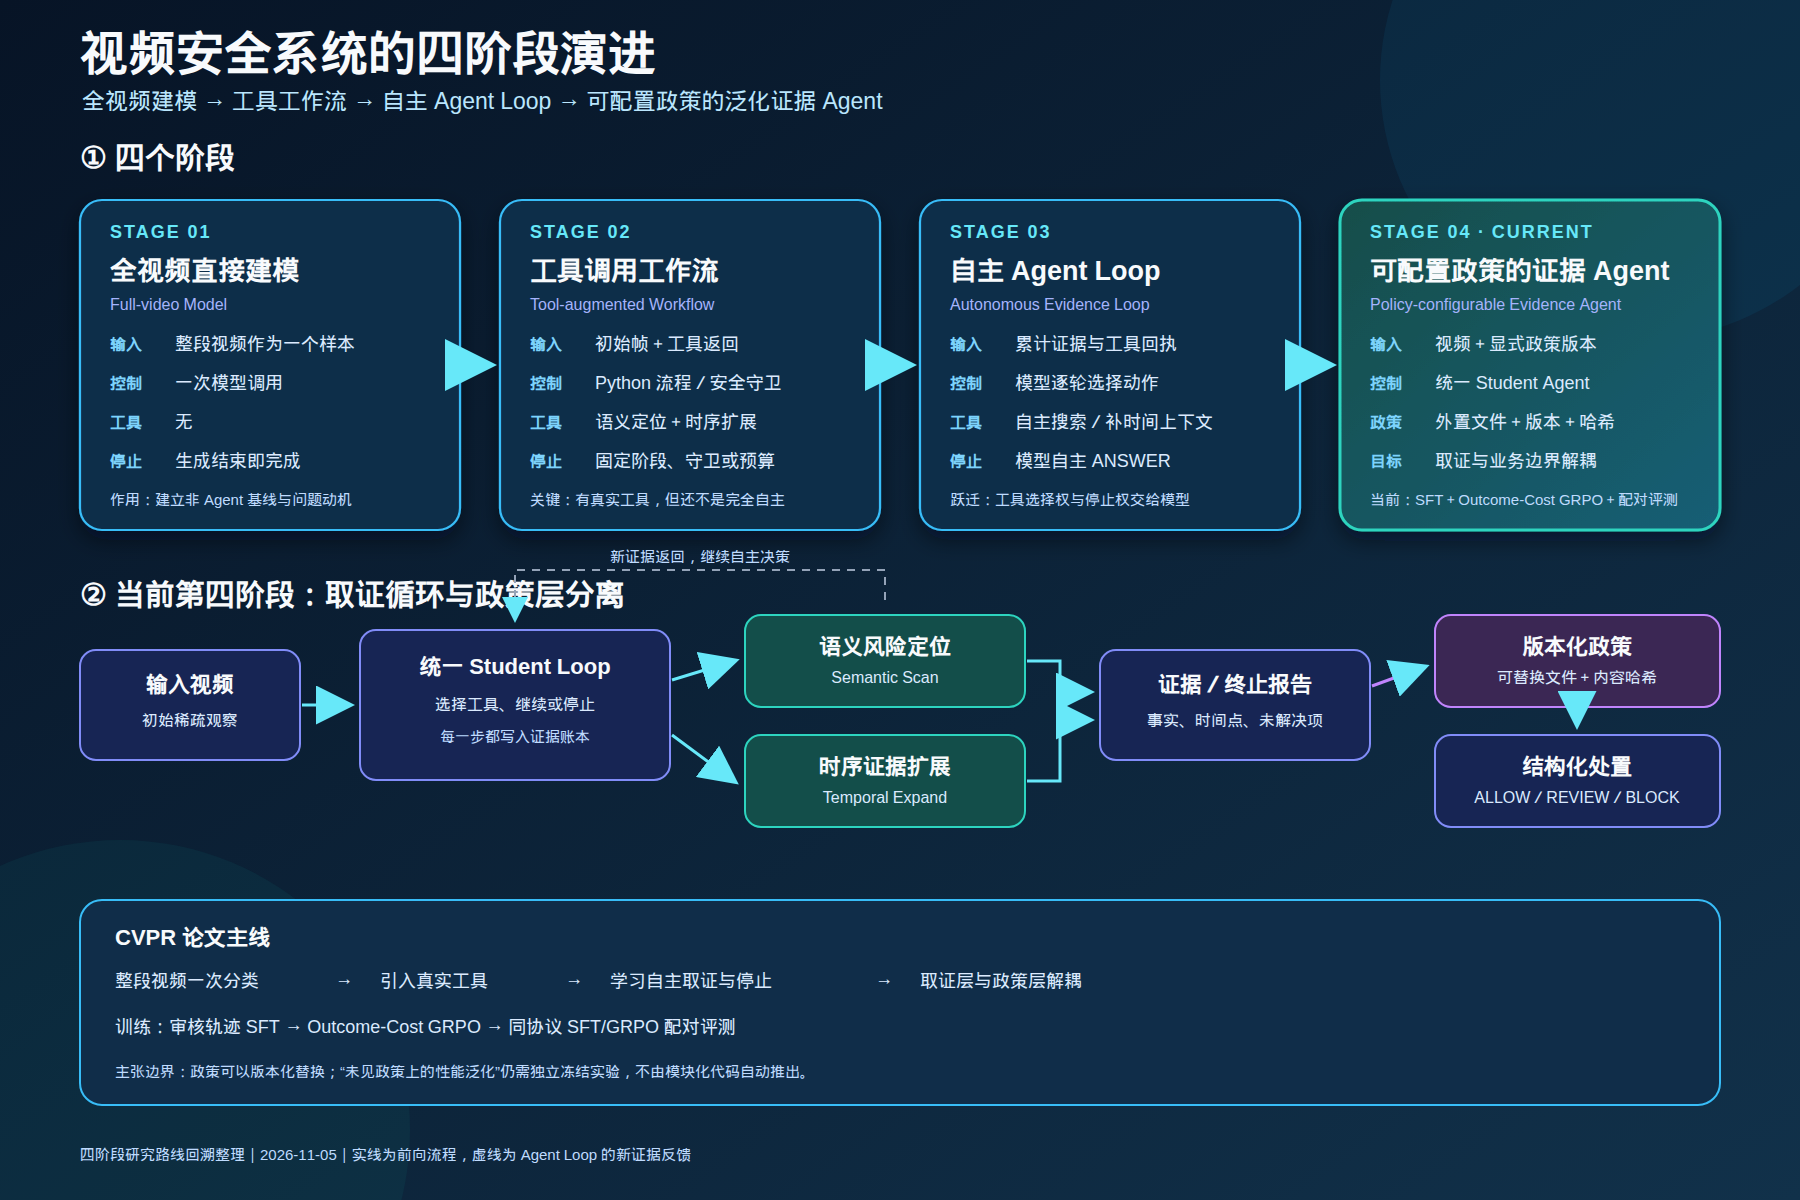
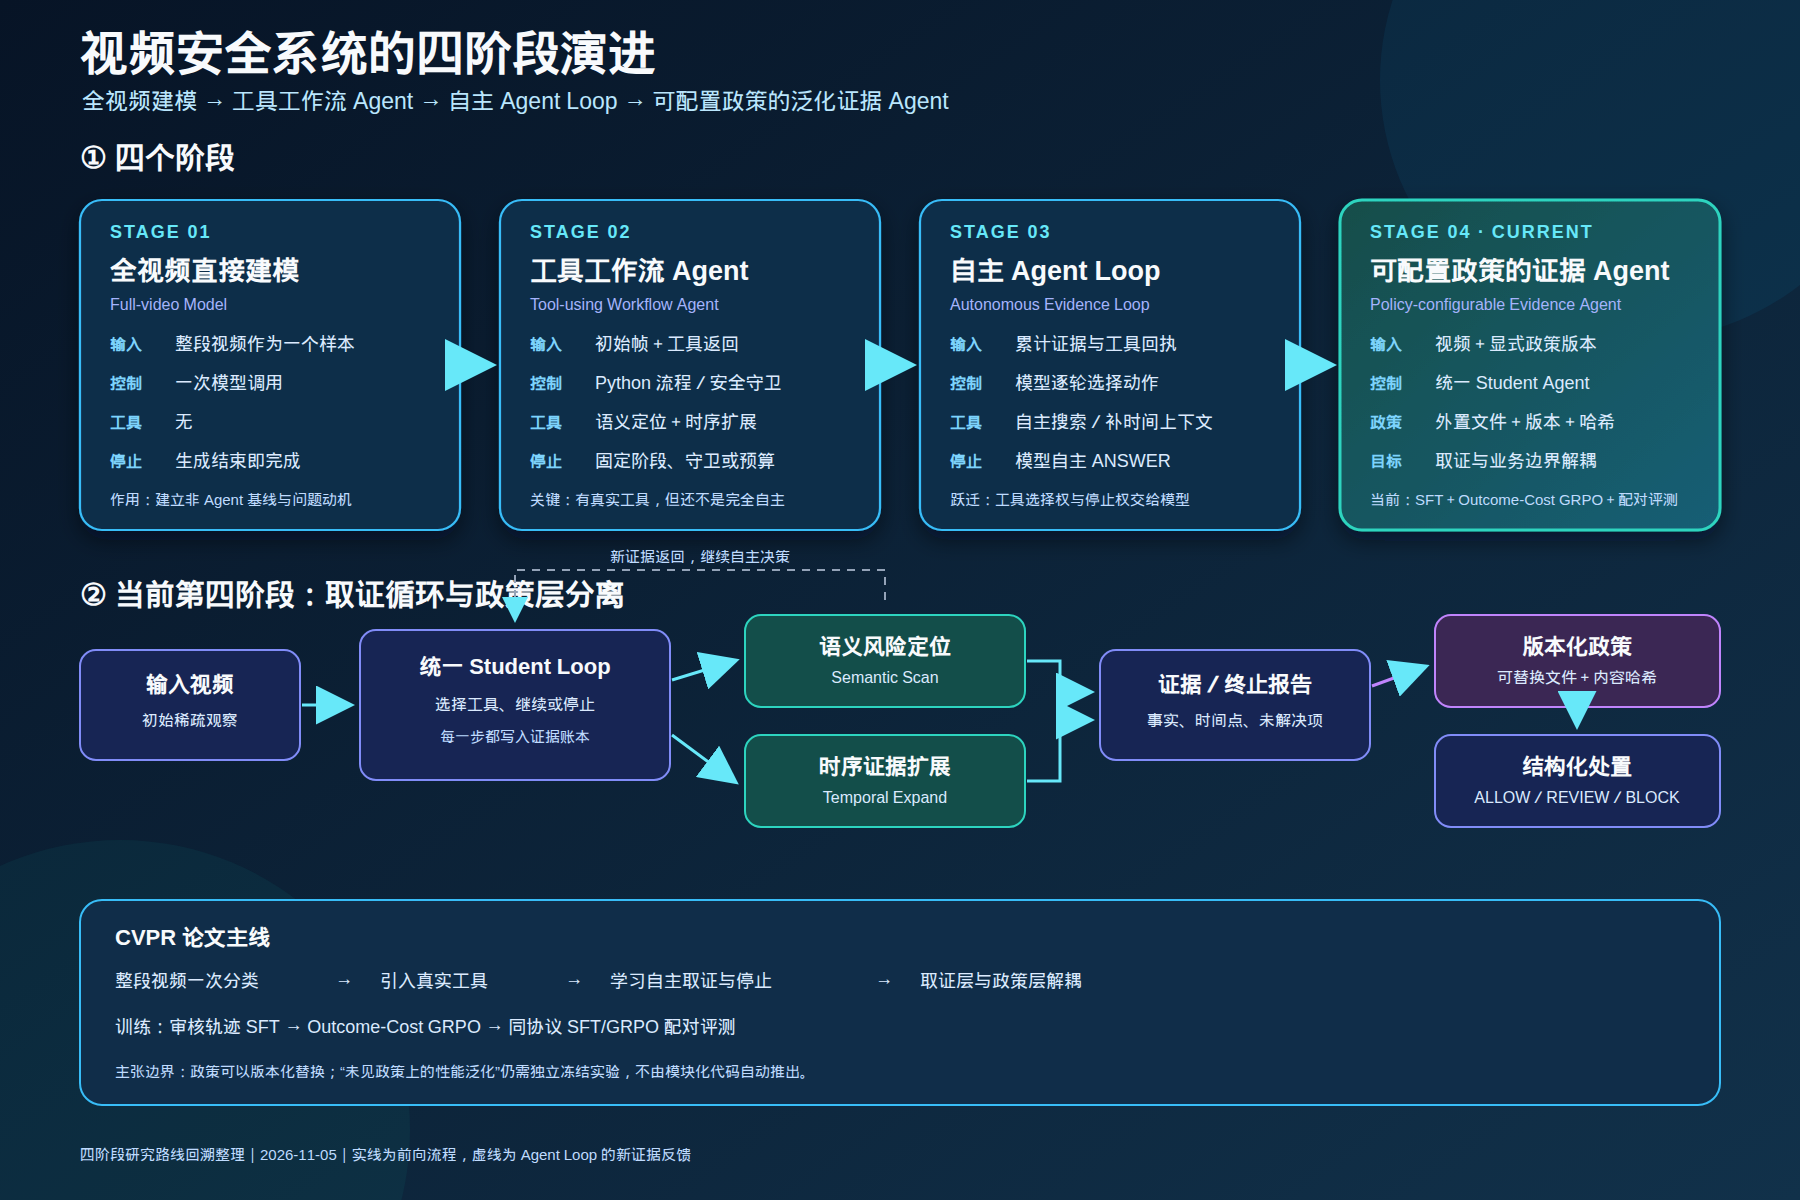
add current agent framework and audited result tables

Changed region(s): [[0.1867, 0.0617, 0.5289, 0.0925], [0.3111, 0.2158, 0.4356, 0.2775]]

diff --git a/docs/results_zh.md b/docs/results_zh.md
@@ -1,0 +1,62 @@
+# 当前结果表
+
+本页区分“当前第四阶段的运行状态”和“已经完成审计的历史定量结果”。不同数据、参考标签和评测协议下的数字不能直接横向排名。
+
+## 当前第四阶段状态
+
+| 项目 | 规模或状态 | 结论边界 |
+|---|---:|---|
+| Unified Student SFT | 1,743 个视频、2,829 个监督状态、400 个优化步 | 已完成训练；从基座新建 LoRA |
+| Outcome-Cost GRPO-53 | 938 组、1,688 条入选轨迹、53 个优化步 | `BOUNDED_GRPO_COMPLETE_NOT_PROMOTED`，仍是候选模型 |
+| 配对 Dev | 1,915 个视频 | SFT/GRPO 使用相同来源、种子、工具、预算与处理协议；最终汇总指标尚未闭合 |
+| 冻结 Test | 1,924 个视频 | 当前队列记录为等待配对 Dev 完成；不能提前报告 Test 性能 |
+
+因此，目前可以报告训练已完成和冻结评测设计已经建立，但不能把 GRPO-53 写成正式优于 SFT，也不能给出尚未生成的 Dev/Test 最终数字。
+
+## 已闭合：历史内部完整 Agent 对照
+
+以下来自旧 `legacy_closeout` 的 1,679 条内部评测。类别和等级均相对弱参考，不代表逐视频独立人工真值；SFT 到最终 GRPO 之间还包含额外分级 SFT 与后续训练，差异不能全部归因于一次 GRPO 更新。
+
+| 方法 | N | 类别一致 | 类别+等级一致 | 平均帧 | 平均工具调用 |
+|---|---:|---:|---:|---:|---:|
+| Base 完整 Agent | 1,679 | 67.24% | 55.57% | 未记录 | 1.69 |
+| SFT 完整 Agent | 1,679 | 87.91% | 80.76% | 7.93 | 0.61 |
+| GRPO 完整 Agent | 1,679 | **90.11%** | **81.06%** | 8.19 | 0.65 |
+| 固定 4 帧（GRPO 权重） | 1,679 | 86.48% | 77.13% | 4.00 | 0 |
+| 固定 12 帧（GRPO 权重） | 1,679 | 85.47% | 77.55% | 12.00 | 0 |
+| 去 Temporal | 1,679 | 90.05% | **81.30%** | 8.17 | 0.65 |
+| 去初始 Guard | 1,679 | 88.86% | 79.33% | 6.70 | 0.42 |
+
+## 已闭合：分级修复 SFT → GRPO
+
+该实验在同一冻结 Dev-1679 上对比，GRPO 使用 393 个有效提示组、1,572 条 rollout 和 50 个优化步，最终选择 step 30。
+
+| 阶段 | 类别准确率 | 类别+等级准确率 | 有害漏判 | Harmless 误报 |
+|---|---:|---:|---:|---:|
+| SFT (`sft-severity-s450`) | 88.922% | 81.120% | 75 | 87 |
+| SFT + GRPO (`grpo-severity-s30`) | **89.160%** | 81.120% | **73** | 87 |
+
+该轮冻结结论为接受：严格准确率没有下降，有害漏判减少 2 条。它属于第三阶段的历史结果，不是当前第四阶段 GRPO-53 的最终结果。
+
+## 已闭合：THVL 外部取证评测
+
+THVL-Bench 含 448 个视频与 1,097 个人工有害时间区间，不参与训练或检查点选择。该实验评估的是取证覆盖，不是当前自定义 L1/L2 分类真值。
+
+| 指标 | 厚 Harness Agent |
+|---|---:|
+| 结构校验通过 | 448 / 448 |
+| 工具调用 | 378 / 448 |
+| 平均有效帧 | 9.94 |
+| Exact observed recall | 55.85% |
+| ±3 秒 observed recall | 64.26% |
+| Exact evidence recall | 27.66% |
+| ±3 秒 evidence recall | 30.21% |
+| ALLOW / REVIEW / BLOCK | 97 / 191 / 160 |
+
+同预算下，厚 Harness Agent 命中 525 个视觉/文本区间，均匀采样对照命中 580 个；这说明主动取证框架已经可运行，但当时的取证召回仍未超过均匀基线。
+
+## 权威来源
+
+- [`HISTORICAL_EXPERIMENT_INDEX_20261102.md`](../video_detection_agent/docs/HISTORICAL_EXPERIMENT_INDEX_20261102.md)
+- [`DATA_AND_EXPERIMENT_LOG.md`](../video_detection_agent/docs/DATA_AND_EXPERIMENT_LOG.md)
+- 当前阶段训练与评测身份见 [`stages/04_policy_configurable_agent/README.md`](../stages/04_policy_configurable_agent/README.md)

diff --git a/README.zh-CN.md b/README.zh-CN.md
@@ -13,7 +13,7 @@
 | 阶段 | 模式 | 谁控制观察与停止 | 论文中的作用 |
 |---|---|---|---|
 | [01](stages/01_full_video_model/) | 全视频直接建模 | 一次模型调用；生成结束即任务结束 | 非 Agent 基线与研究动机 |
-| [02](stages/02_tool_workflow/) | 工具调用工作流 | Python 工作流和安全守卫主导 | 建立真实的语义、时序工具 |
+| [02](stages/02_tool_workflow/) | 工具工作流 Agent | Python 工作流和安全守卫主导 | 建立真实的语义、时序工具 |
 | [03](stages/03_autonomous_agent_loop/) | 自主 Agent Loop | 模型决定调用工具、继续观察或停止 | 主动取证与自主停止 |
 | [04](stages/04_policy_configurable_agent/) | 可配置政策的证据 Agent | 统一 Student Loop 配合外部版本化政策 | 当前研究主线 |
 
@@ -23,7 +23,7 @@
 
 第一阶段验证了全视频端到端建模的基本能力，但模型只能被动接收固定输入，无法解释证据从何而来，也不能主动补充观察。
 
-第二阶段引入语义扫描和时序扩展工具，系统开始具备分步取证能力；不过工具顺序和停止条件主要由固定工作流控制，因此“有工具调用”还不等于 Agent 自主决策。
+第二阶段是工具工作流 Agent：它引入语义扫描和时序扩展工具，系统开始具备分步取证能力；不过工具顺序和停止条件主要由固定工作流控制，因此“作为 Agent 使用”和“由模型完全自主决策”需要区分。
 
 第三阶段将工具选择、继续观察和停止交给模型，在多轮累积证据的过程中形成自主 Agent Loop。这里的核心变化是从固定流程转向由模型控制的主动感知。
 
@@ -45,6 +45,16 @@
 仓库已经在结构上实现政策可配置和可替换，但“同一个冻结模型能泛化到任意未见政策”仍然是需要通过独立跨政策实验验证的经验性结论，不能仅由代码模块化推出。
 
 当前 SFT 与 53 步 outcome-cost GRPO 候选模型采用冻结、配对的运行时绑定，在 1,915 个 Dev 视频和 1,924 个 Test 视频上比较。
+
+## 当前 Agent 框架
+
+![当前政策可配置证据 Agent 框架](docs/figures/current_agent_framework_zh.png)
+
+可编辑版本见[框架图 SVG](docs/figures/current_agent_framework_zh.svg)。Student Agent 根据已有证据选择语义扫描、时序扩展或停止作答；工具返回持续写入证据账本并反馈到下一轮，最终证据报告再与外部版本化政策共同产生结构化处置。
+
+## 当前结果
+
+训练规模、当前配对评测状态，以及已经闭合审计的历史数字见[当前结果表](docs/results_zh.md)。其中当前 GRPO-53 是尚未晋级的候选，1,915 Dev / 1,924 Test 的最终指标仍以冻结评测完成后的报告为准。
 
 ## 仓库组织
 

diff --git a/docs/agent_versions/README.md b/docs/agent_versions/README.md
@@ -29,7 +29,7 @@ explicit.
 | Stage | Period | Control structure | Main preserved evidence | Claim boundary |
 |---|---|---|---|---|
 | 01: full-video model | 2026-06 to 2026-07 | A whole video is one sample; one model call returns the class | Early Qwen-VL evaluation and SFT entrypoints | Non-Agent baseline. Early small or weak-label evaluations are motivation, not the current result. |
-| 02: tool workflow | 2026-08 to early 2026-09 | Real semantic and temporal tools are scheduled mainly by a Python workflow and guards | Tool receipts, deterministic workflow, Teacher pilots | Real tool use is established, but workflow-scheduled calls are not model autonomy. |
+| 02: tool-using workflow Agent | 2026-08 to early 2026-09 | Real semantic and temporal tools are scheduled mainly by a Python workflow and guards | Tool receipts, deterministic workflow, Teacher pilots | This was used as an Agent, but workflow-scheduled calls are not model autonomy. |
 | 03: autonomous Agent loop | 2026-09 to 2026-10-13 | The model repeatedly chooses a tool, continuation, or terminal answer | Routed SFT/GRPO, legacy closeout on 1,679 internal examples, THVL 448 comparison | Framework fallbacks remain separate from model actions; internal and THVL sets have explicit interpretation limits. |
 | 04: policy-configurable evidence Agent | 2026-10-17 onward | One Student controls evidence acquisition and stopping; an external versioned policy defines the decision boundary | 1,743-video SFT, 2,829 states, 400 steps; outcome-cost GRPO with 938 groups, 1,688 selected trajectories, 53 steps; paired Dev 1,915 and Test 1,924 | Policy replacement is structurally supported. Unseen-policy performance remains an empirical claim requiring a frozen cross-policy evaluation. |
 
@@ -45,7 +45,7 @@ the four stages rather than defining nine separate paper contributions:
 
 ```text
 01 whole-video sample / one-shot prediction
-  -> 02 deterministic tool workflow
+  -> 02 tool-using workflow Agent
       -> 03 autonomous multi-turn Agent loop
           -> 04 policy-configurable evidence Agent
               -> unified SFT

diff --git a/README.md b/README.md
@@ -11,7 +11,7 @@ evidence Agent that can acquire evidence and decide when to stop.
 | Stage | Mode | Who controls observation and stopping? | Main role |
 |---|---|---|---|
 | [01](stages/01_full_video_model/) | Full-video model | One model call; generation ends the run | Non-Agent baseline |
-| [02](stages/02_tool_workflow/) | Tool workflow | Python workflow and safety guards | Establish real semantic/temporal tools |
+| [02](stages/02_tool_workflow/) | Tool-using workflow Agent | Python workflow and safety guards | Establish real semantic/temporal tools |
 | [03](stages/03_autonomous_agent_loop/) | Autonomous Agent loop | Model chooses tool, continuation, or stop | Learn active evidence acquisition |
 | [04](stages/04_policy_configurable_agent/) | Policy-configurable Agent | Unified Student loop plus external versioned policy | Current research line |
 
@@ -27,6 +27,9 @@ See [the stage comparison](stages/README.md) and the
 
 The editable vector version is available as
 [SVG](docs/figures/four_stage_roadmap_zh.svg).
+
+See also the [current Agent architecture](docs/figures/current_agent_framework_zh.png)
+and the [Chinese results tables](docs/results_zh.md).
 
 ## Current stage
 

diff --git a/stages/02_tool_workflow/README.md b/stages/02_tool_workflow/README.md
@@ -1,8 +1,9 @@
-# Stage 02 — Tool workflow
+# Stage 02 — Tool-using workflow Agent
 
 ## Definition
 
-The system gains real tools—semantic risk localization and temporal evidence
+This stage was used and described as an Agent system. It gains real
+tools—semantic risk localization and temporal evidence
 expansion—but the surrounding Python workflow and safety guards still decide
 much of the order and stopping behavior.
 
@@ -11,9 +12,10 @@ initial observation -> workflow condition -> semantic/temporal tool
                     -> fixed next stage -> final decision
 ```
 
-This stage proves that targeted evidence can be acquired. It must not be
-described as fully autonomous tool use when a guard or workflow scheduled the
-call.
+This stage proves that a workflow Agent can acquire targeted evidence. The
+historical Agent label is retained, while the control boundary remains
+explicit: a guard or workflow, rather than the model alone, often scheduled
+the call.
 
 ## Preserved scripts and shared code
 

diff --git a/stages/README.md b/stages/README.md
@@ -4,7 +4,7 @@ The paper story is organized by **control structure**, not by every checkpoint
 or training suffix. V0/V1/V2-style experiment names remain in historical
 records, but the four stages below are the stable conceptual units.
 
-| Property | 01 Full-video model | 02 Tool workflow | 03 Autonomous Agent loop | 04 Policy-configurable Agent |
+| Property | 01 Full-video model | 02 Tool-using workflow Agent | 03 Autonomous Agent loop | 04 Policy-configurable Agent |
 |---|---|---|---|---|
 | Model input | Whole video as one sample | Initial frames plus workflow-selected evidence | Cumulative visible evidence and tool history | Evidence ledger plus an explicit policy version |
 | Tool execution | None | Real semantic and temporal tools | Real tools selected inside a multi-turn loop | Same loop with frozen receipts and replay |
